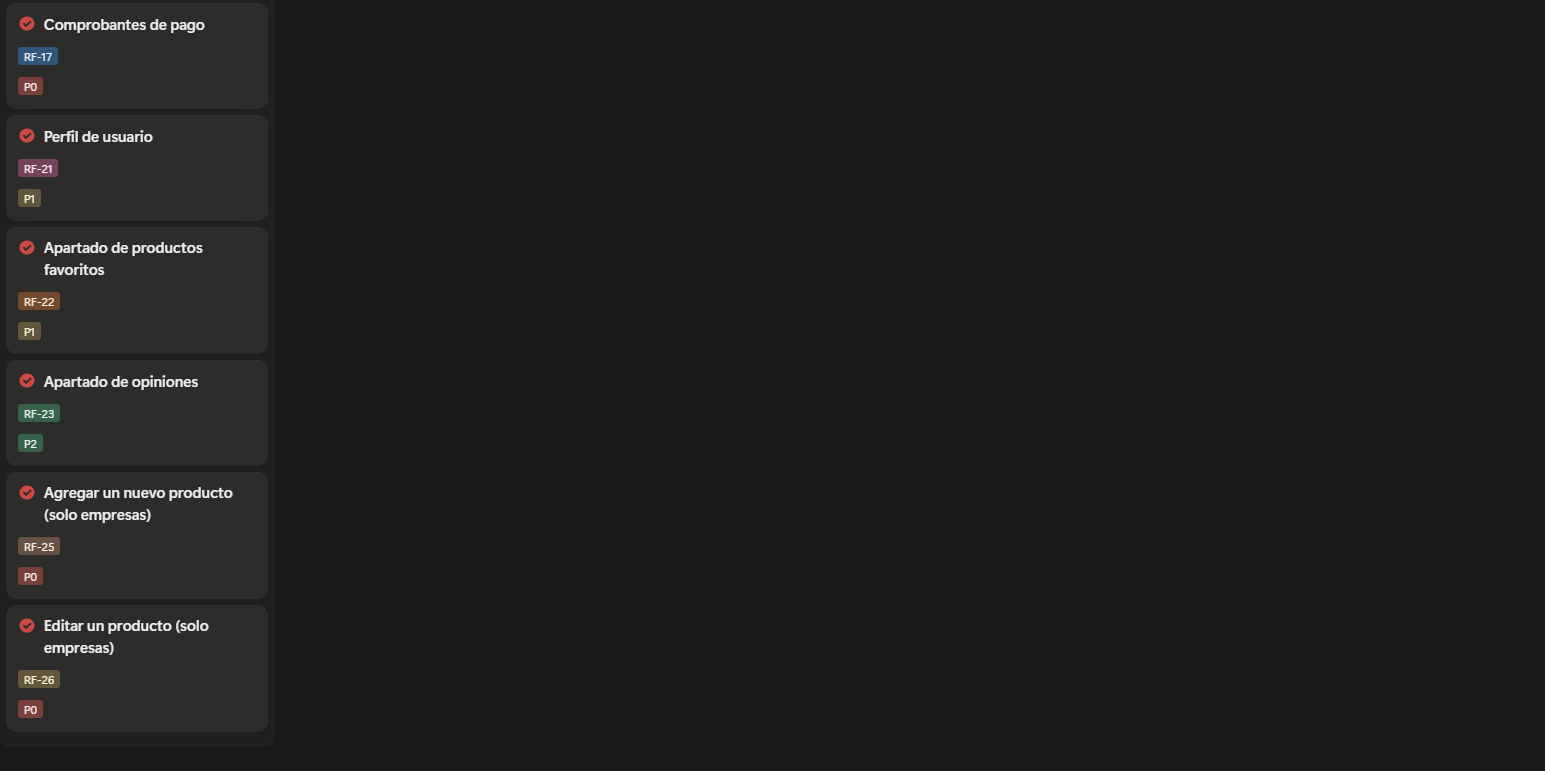
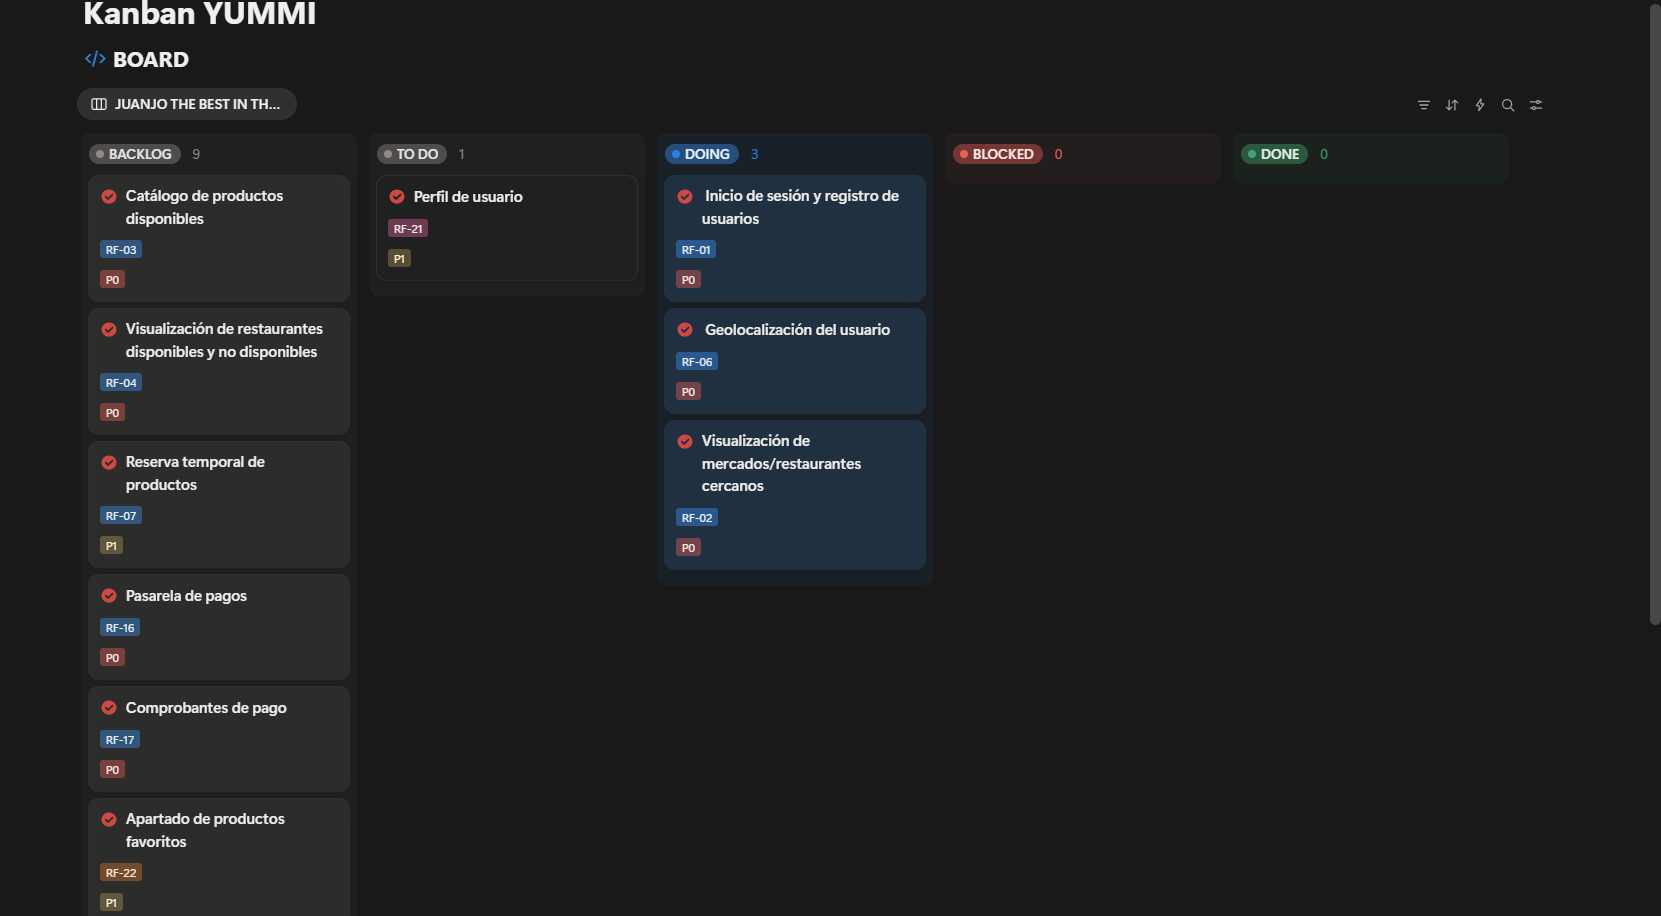
docs(sprint): add Kanban diagram #2 and Burndown chart #2 to documentation

diff --git a/doc/sprint.md b/doc/sprint.md
@@ -1,8 +1,16 @@
-# Diagramas Burndown de YUMMI
+# Diagramas Burndown y Kanban de YUMMI
 
 ## Primer diagrama 
 ![alt text](/doc/design/img/burndown1.png)
 
-## Kanban
+## Primer Kanban
 ![alt text](/doc/design/img/Kanban1.png)
+![alt text](/doc/design/img/Kanban1.1.png)
+
+## Segundo diagrama 
+![alt text](/doc/design/img/burndown2.png)
+
+## Segundo Kanban
 ![alt text](/doc/design/img/Kanban2.png)
+![alt text](/doc/design/img/Kanban2.1.png)
+